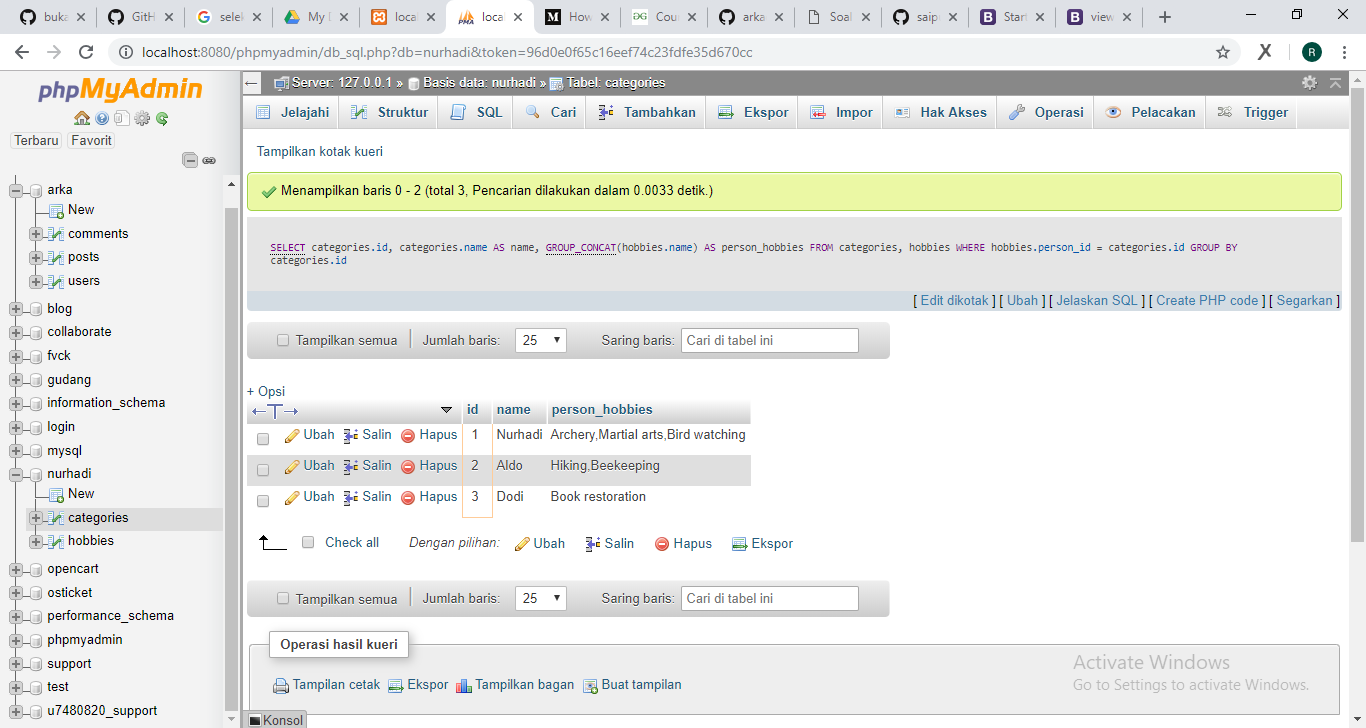
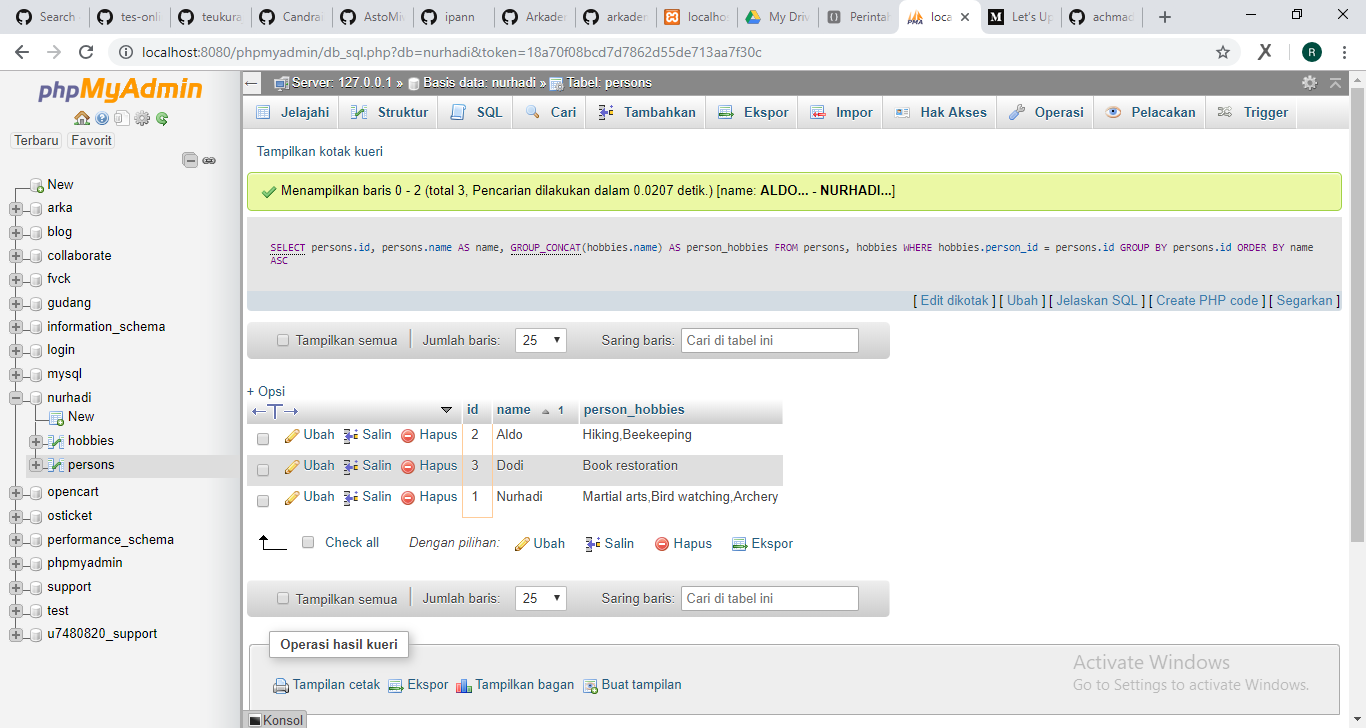
bismillah semoga lolos

diff --git a/7.php b/7.php
@@ -55,7 +55,7 @@ $conn = mysqli_connect($hostname, $username, $password, $database) or die("Conne
 					<?php
 				
 				$query = "SELECT persons.id, persons.name AS name, GROUP_CONCAT(hobbies.name) AS person_hobbies
-FROM persons, hobbies WHERE hobbies.person_id = persons.id GROUP BY persons.id";
+FROM persons, hobbies WHERE hobbies.person_id = persons.id GROUP BY persons.id ORDER BY name ASC";
 				$sqlcon = $conn->query($query);
 				while($read=mysqli_fetch_array($sqlcon)){
 				echo '<tr>';
